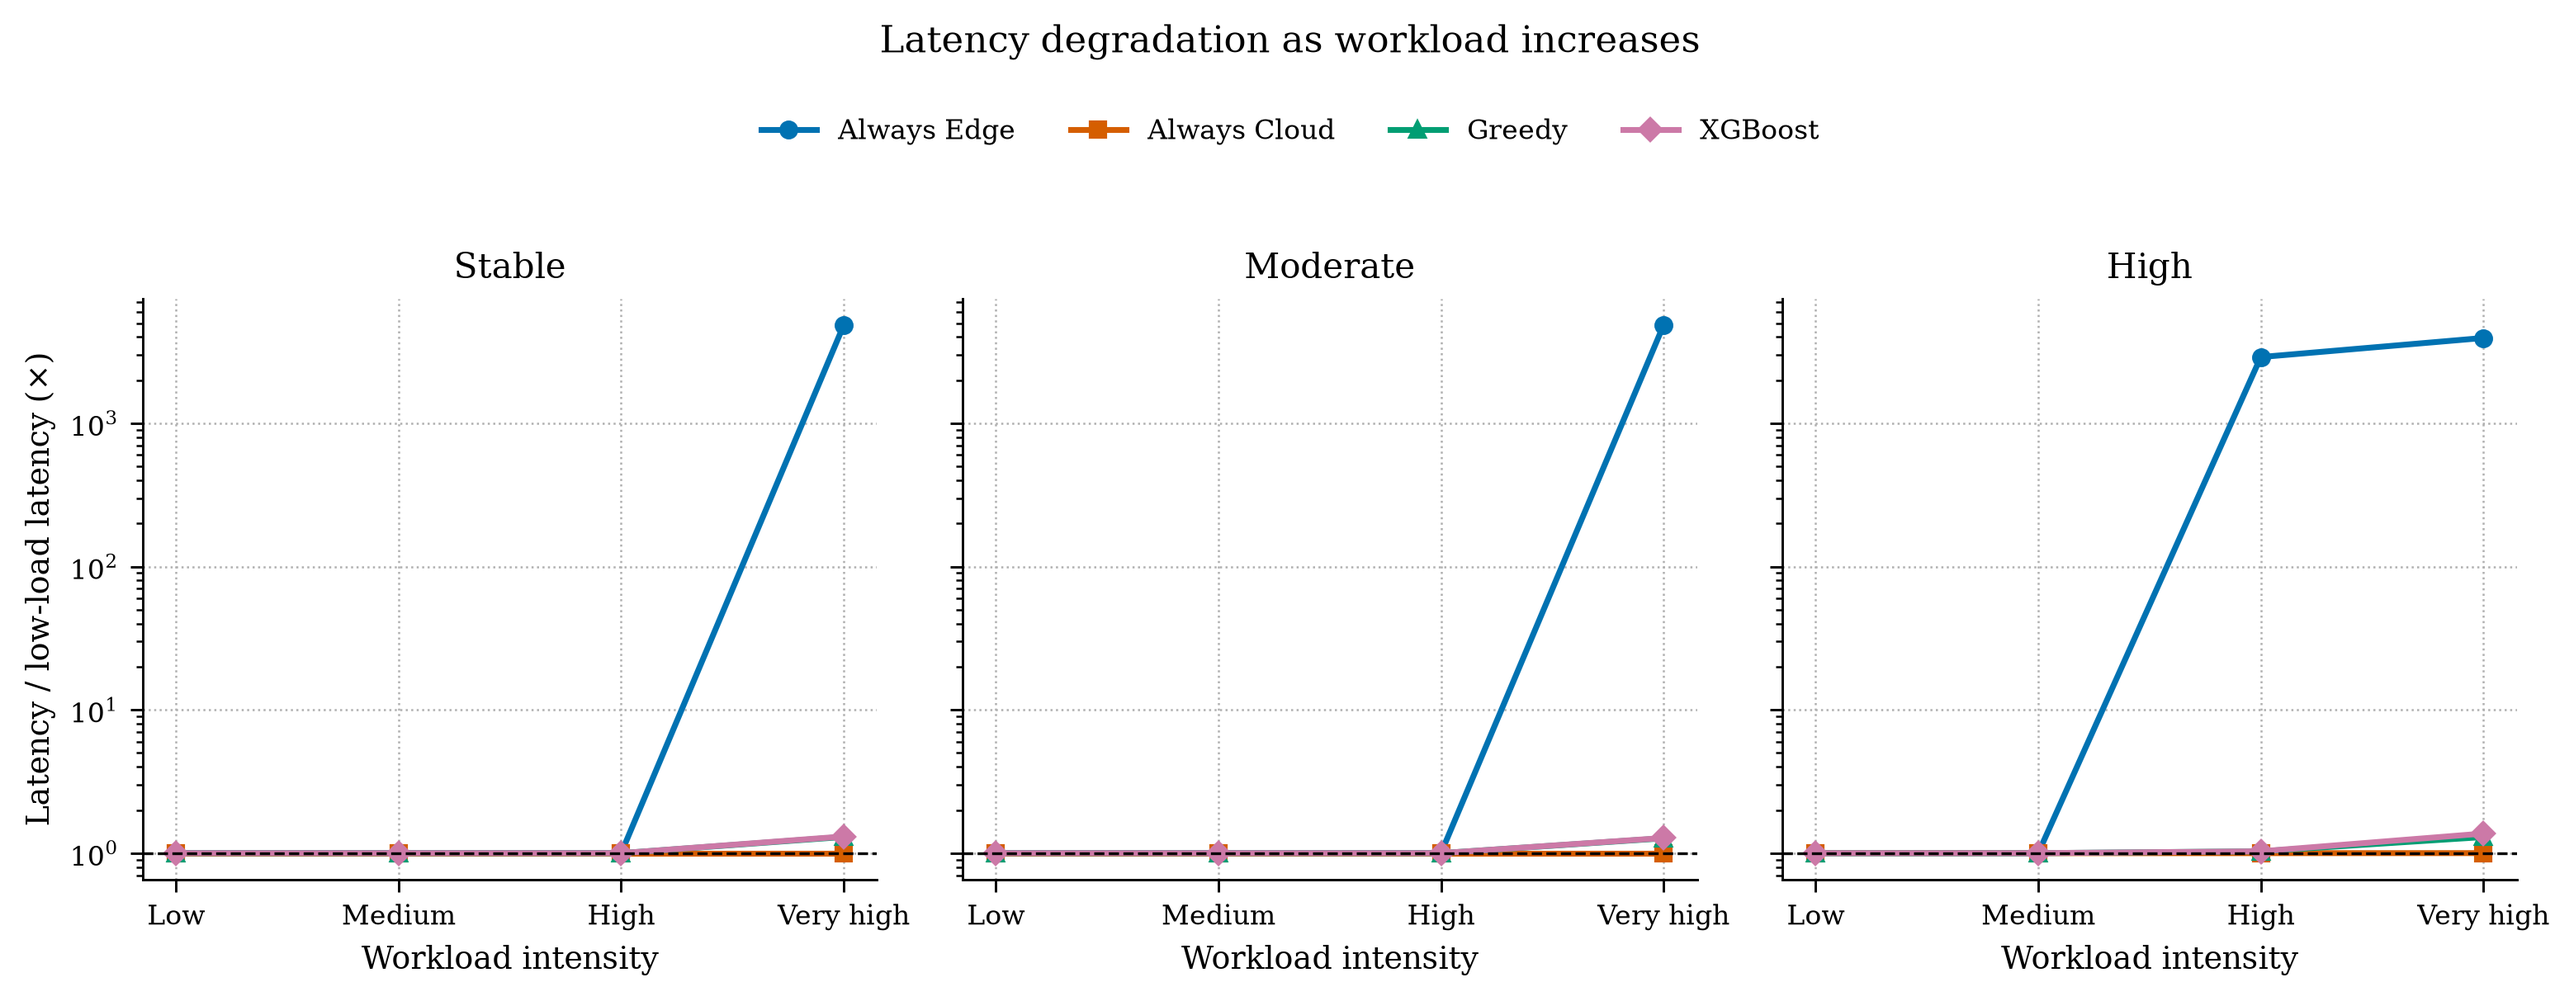
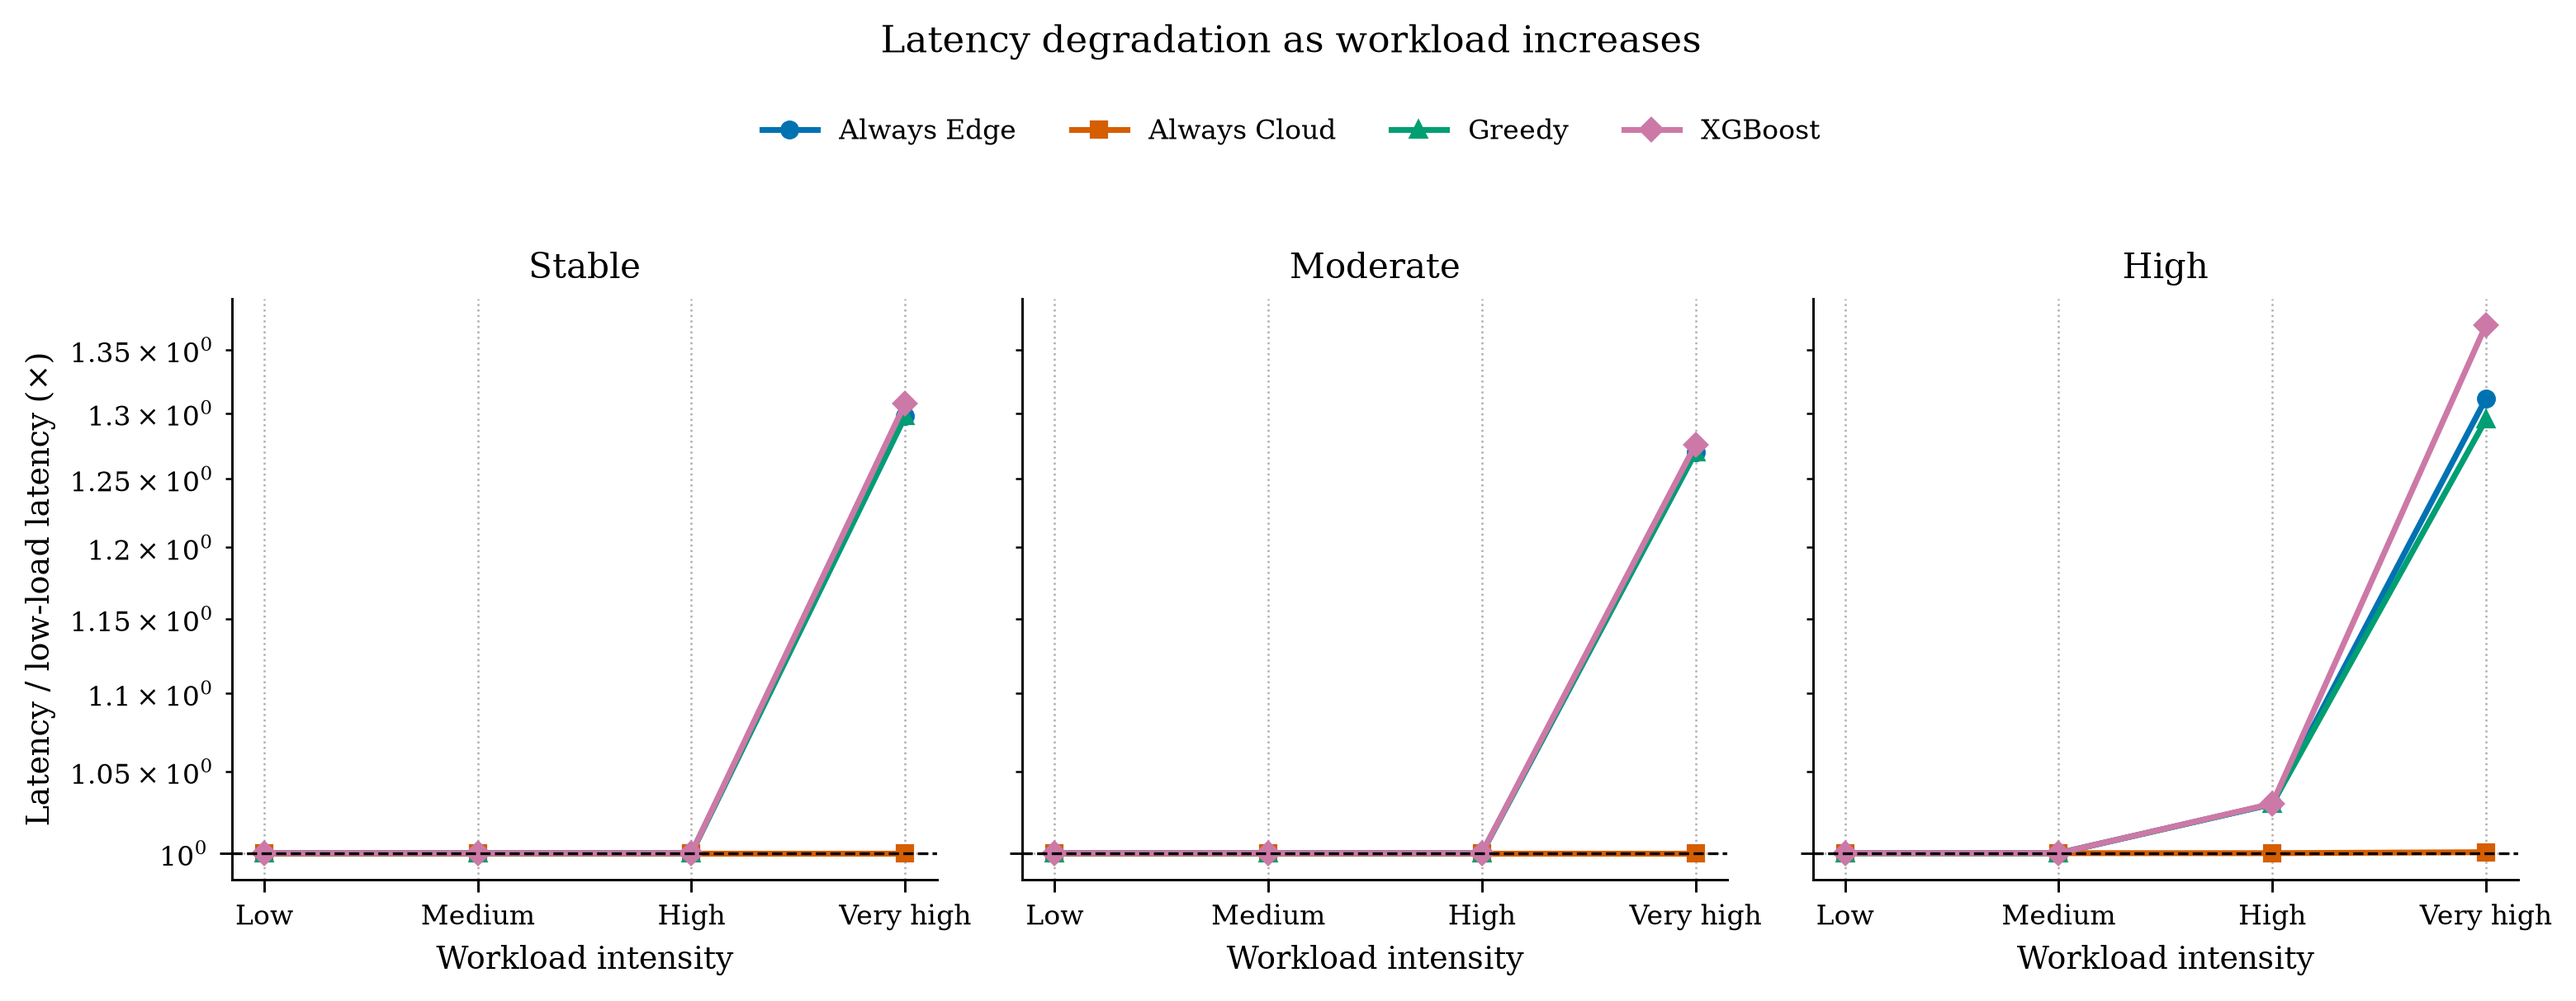
update always edge to pick the min of the available 2 edge nodes

diff --git a/scheduler/baselines.py b/scheduler/baselines.py
@@ -14,7 +14,10 @@ def always_edge_baseline(nodes: list[Node], request: InferenceRequest) -> Node:
                   if "edge" in node.name and node.can_handle(request.required_compute)]
     if not edge_nodes:
         raise RuntimeError("No available edge node")
-    return edge_nodes[0]
+    return min(
+        edge_nodes,
+        key=lambda node: node.estimated_latency(request.required_compute)
+    )
 
 def always_cloud_baseline(nodes: list[Node], request: InferenceRequest) -> Node:
     """
